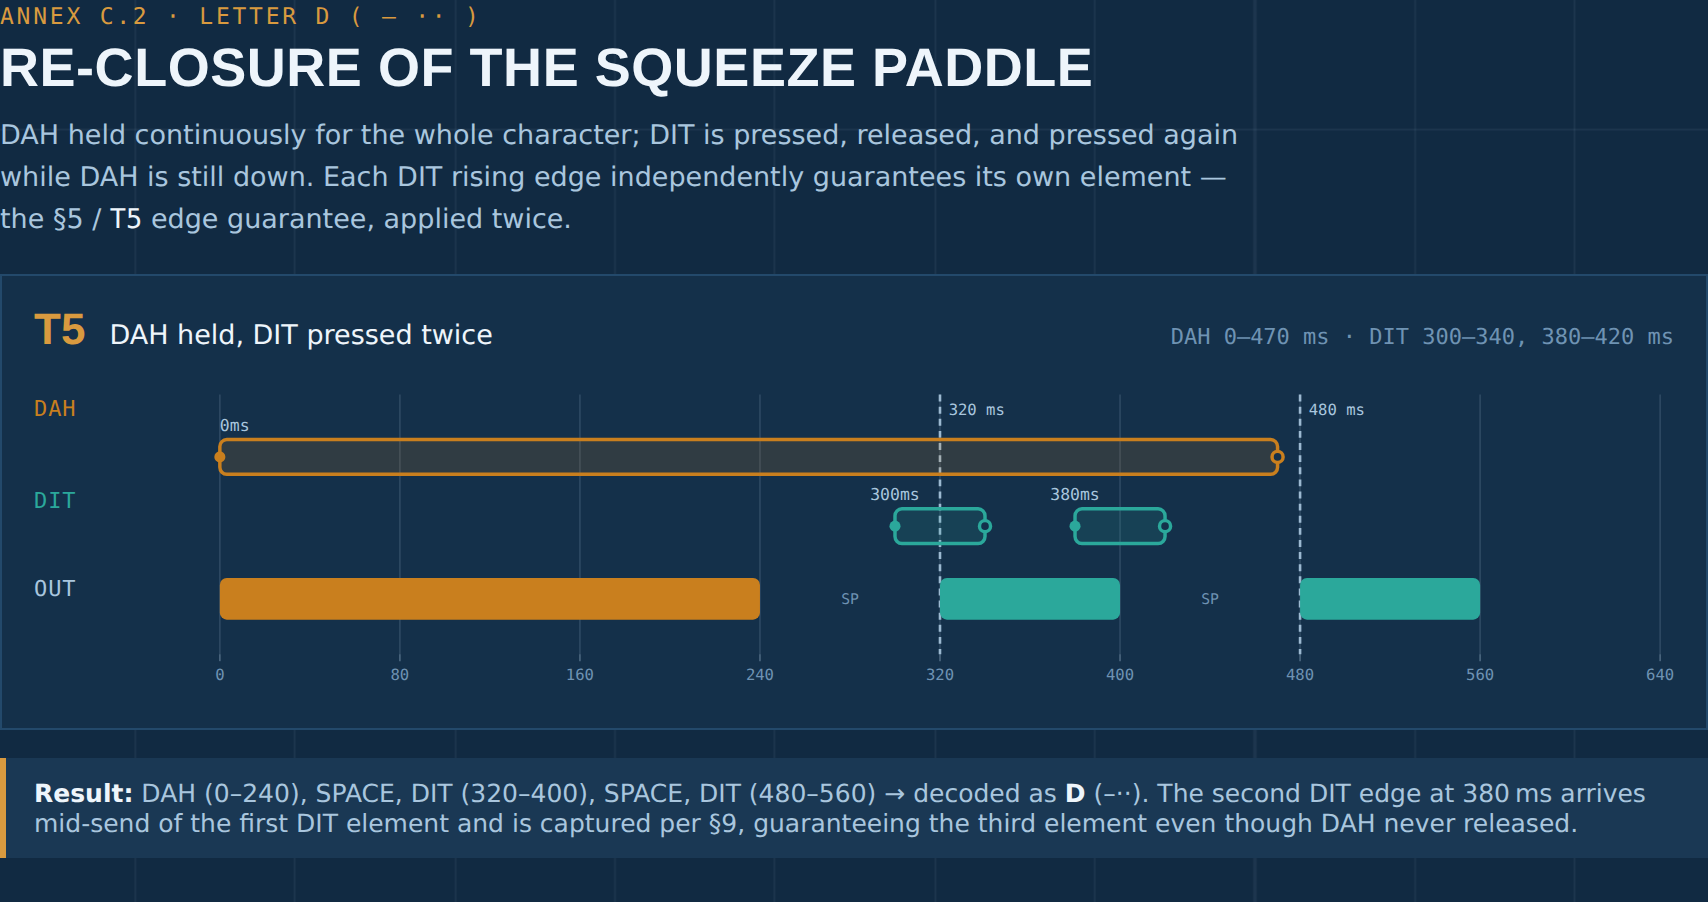
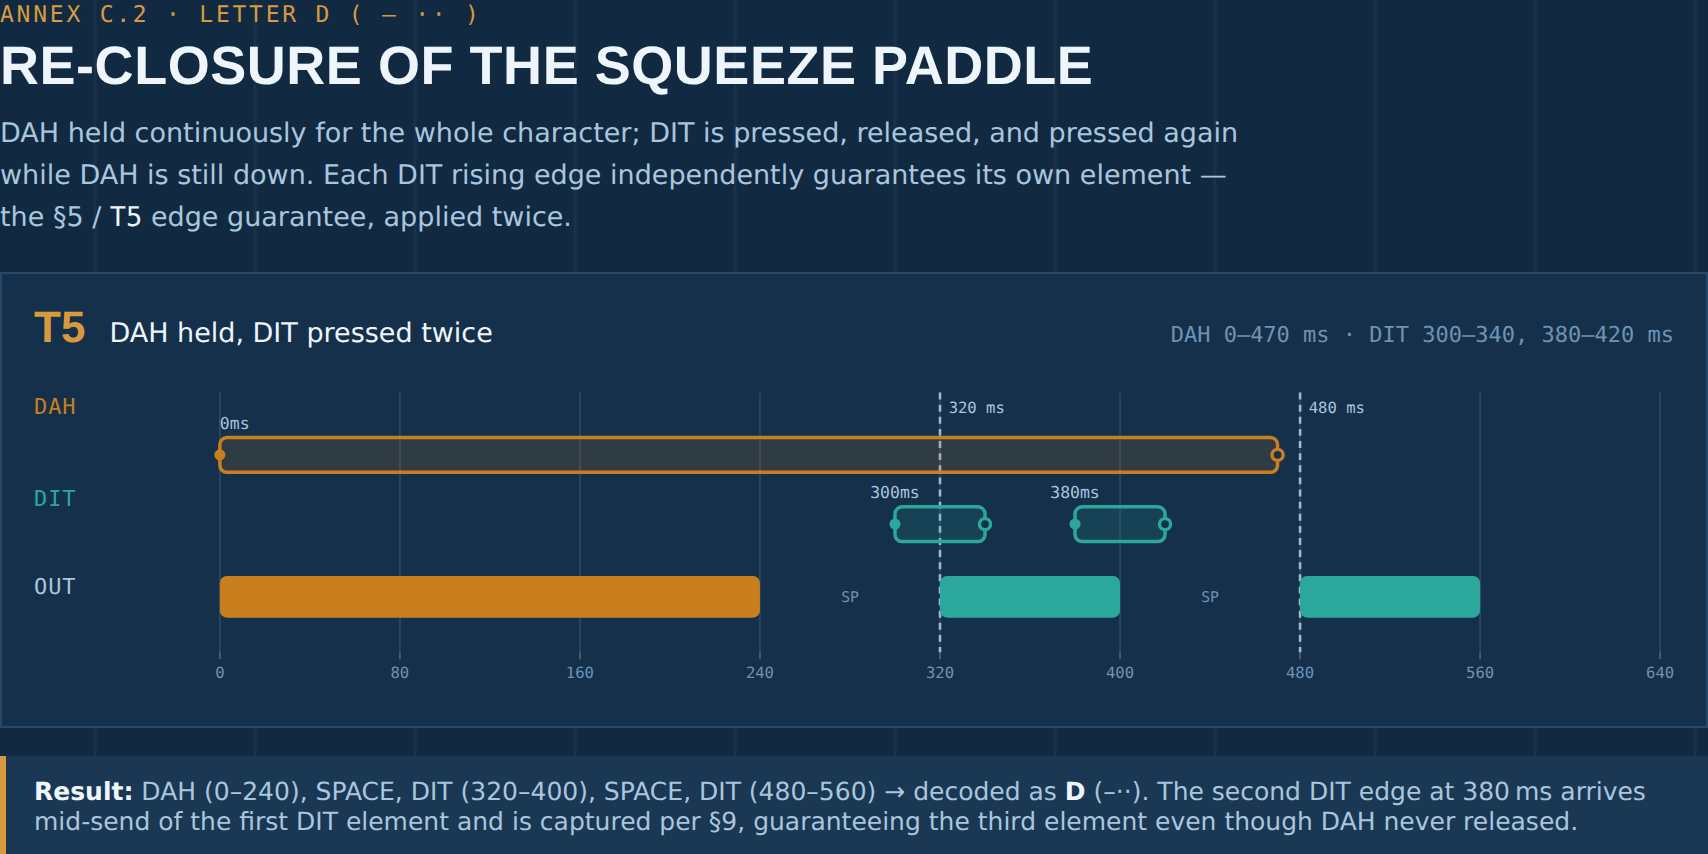
Rework Annex C.2/C.3: add a second T5 worked example, correct C.3 numbers and DIT/DAH naming; ignore .DS_Store

diff --git a/docs/ULTIMATIC_MODE_SPECIFICATION_UNAMBIGUOUS.md b/docs/ULTIMATIC_MODE_SPECIFICATION_UNAMBIGUOUS.md
@@ -2,6 +2,7 @@
 
 **Author:** Paweł (SP5DNA)
 **Status:** Normative core spec (Sections 1–14) + informative annexes (A–D)
+**Provenance:** This document is the primary normative spec of the Ultimatic-mode document set. It supersedes `ultimatic_specification.md` as the implementation reference; that document's historical text, worked timing examples, and checklist have been folded in below as informative annexes so nothing is lost. See also `ULTIMATIC_MODE_SPECIFICATION_RFC_STYLE.md` for the same requirements expressed as a compact RQ-ID checklist, useful for conformance audits.
 
 ---
 
@@ -349,6 +350,7 @@ void ultimatic_update(bool dit_paddle, bool dah_paddle) {
 }
 ```
 
+**Why this differs from the earlier draft pseudocode** (formerly in `ultimatic_specification.md` §4): that version used unconditional priority `if (dah_memory) ... else if (dit_memory) ...` in `IDLE`, with no `last_touched` at all. It satisfies Sections 5, 7 (partially), and 9–10, but not Section 8 Priority 1/3 or T8, because it has no way to prefer DIT over DAH when both memories are set from a DIT edge arriving second. Any implementation modeled directly on that earlier pseudocode should be re-checked against T8.
 
 ---
 
@@ -361,14 +363,14 @@ Reference speed for this annex only: **15 WPM**, dit unit = 80 ms, dah = 240 ms,
 Five input timelines, all conformant, all producing **DAH (0–240 ms), SPACE (240–320 ms), DIT (320–400 ms)**:
 
 | Scenario | DAH paddle | DIT paddle | Note                                                |
-| -------- | ---------- | ---------- | --------------------------------------------------- |
+| -------- | ---------- | ---------- | ---------------------------------------------------- |
 | 1        | 0–160 ms   | 10–80 ms   | plain squeeze during DAH                            |
 | 2        | 0–160 ms   | 200–210 ms | squeeze arrives **during SPACE** (T7)               |
 | 3        | 0–340 ms   | 250–260 ms | DAH held past its own element into the space        |
 | 4        | 0–420 ms   | 300–410 ms | DAH held through the whole character                |
 | 5        | 0–430 ms   | 300–470 ms | DAH held through character + partial trailing space |
 
-![Annex C.1 timing diagram — five conformant DAH/DIT paddle timelines for letter N, all converging on the same DAH–space–DIT output][image-1]
+![Annex C.1 timing diagram — five conformant DAH/DIT paddle timelines for letter N, all converging on the same DAH–space–DIT output](annex-c1-timing-diagram.png)
 
 *Figure C.1 — the DAH rising edge at 0 ms always wins the first element; the DIT rising edge only needs to land before the IDLE decision at 320 ms (dashed line), and MAY occur during `SPACING` (scenario 2). Scenarios 3–5 hold DAH well past its own element for illustration only — memory is consumed at element start, not release, so the extra hold changes nothing.*
 
@@ -381,29 +383,55 @@ Takeaway: the DIT rising edge only needs to land before the IDLE decision that f
 | DAH    | held 0–470 ms                                          |
 | DIT    | pressed 300–340 ms, released, pressed again 380–420 ms |
 
-![Annex C.2 timing diagram — DAH held continuously while DIT is pressed twice, each press independently guaranteeing its own element][image-2]
+![Annex C.2 timing diagram — DAH held continuously while DIT is pressed twice, each press independently guaranteeing its own element](annex-c2-timing-diagram.png)
 
 Result: **DAH (0–240), SPACE, DIT (320–400), SPACE, DIT (400... next cycle)** → decoded as **D** (`-··`).
 
 Each DIT rising edge (at 300 ms and again at 380 ms) independently sets `dit_memory` and guarantees its own element — this is the Section 5/T5 edge guarantee applied twice in one character. (An earlier draft of this example mislabeled the result as "`--`"; the correct decode is `-··` = D, matching the two independently-guaranteed DIT elements.)
 
+**A second T5 shape — indefinitely held paddle, widely spaced taps.** The same guarantee holds even when the held paddle never releases at all and the taps are spread much further apart:
+
+| Paddle | Timeline                                              |
+| ------ | ------------------------------------------------------ |
+| DAH    | 0 ms onward, **held continuously, never released**   |
+| DIT    | 10–160 ms, released, **560–640 ms** (reclosure)       |
+
+![Annex C.2b timing diagram — DAH held continuously from 0 ms with no release, while DIT is pressed at 10 ms and re-closed at 560 ms, each edge independently guaranteeing its own element](annex-c2b-timing-diagram.png)
+
+Result: **DAH (0–240), SPACE, DIT (320–400), SPACE, DAH (480–720), SPACE, DIT (800–880), SPACE, DAH (960 ms onward, repeats)** — an open-ended stream rather than a single letter, since DAH never releases.
+
+1. `0 ms`: DAH edge → `dah_memory=true`, `last_touched=DAH`. State is IDLE, so this immediately triggers a decision → sends DAH (0–240 ms).
+2. `10 ms`: DIT edge arrives mid-DAH-send → `dit_memory=true`, `last_touched=DIT`. Captured per Section 9.
+3. `240–320 ms`: SPACING, then IDLE decision: `dah_memory` was already consumed at DAH's start (0 ms), so only `dit_memory` is set → Priority 2 → sends DIT (320–400 ms).
+4. `400–480 ms`: SPACING, then IDLE decision: `dit_memory` was consumed at 320 ms and no new edge has occurred; DAH is still held (it never releases) → Priority 4 (single paddle held) → sends DAH again (480–720 ms).
+5. `560 ms`: DIT is re-closed — **while DAH is still held**. A fresh rising edge: `dit_memory=true`, `last_touched=DIT`. Captured mid-DAH-send.
+6. `720–800 ms`: SPACING, then IDLE decision: `dah_memory` was consumed at 480 ms, so only `dit_memory` is set (from the edge at 560 ms) → Priority 2 → sends DIT (800–880 ms).
+7. `880–960 ms`: SPACING, then IDLE decision: no memory is set, and DAH is still held → Priority 4 → sends DAH (960 ms onward), repeating indefinitely for as long as DAH stays held with no new DIT edge.
+
+**Why this is T5, not T8.** DAH — the paddle that opened the character at 0 ms — is also the paddle being held continuously; it is never the paddle that gets re-closed. DIT is what gets re-closed here (at 560 ms), and DIT did not open the character, so that reclosure is on the *squeeze* paddle, not the *opening* paddle — the same shape as the first C.2 scenario above, just with the hold made indefinite and the taps spread further apart. This is also why the raw numbers alone don't decide T5 vs. T8: it is *which paddle opened the character* that decides it. Swap the roles — make the re-closed paddle the one that opened, as in Annex C.3 below — and the identical-looking pattern becomes T8 instead.
+
 ### C.3 — T8 worked trace (the case that is easy to get wrong)
 
-| Paddle                              | Timeline                                             |
-| ----------------------------------- | ---------------------------------------------------- |
-| DAH (paddle A, opens the character) | 0–160 ms, released, **380–460 ms** (reclosure)       |
-| DIT (paddle B)                      | 100 ms onward, **held continuously, never released** |
+| Paddle                     | Timeline                                              |
+| --------------------------- | ------------------------------------------------------ |
+| DIT (opens the character)  | 10–160 ms, released, **560–640 ms** (reclosure)       |
+| DAH                         | 20 ms onward, **held continuously, never released**  |
+
+(DAH's continuous hold is shown starting at 20 ms — 10 ms after DIT's opening press — so that DIT is unambiguously the paddle that *opens* the character. T8 concerns re-closure of the opening paddle specifically, so the example needs a clear opening paddle to demonstrate it against.)
 
 Expected per Section 8/10 and T8:
-1. `0 ms`: DAH edge → `dah_memory=true`, `last_touched=DAH` → sends DAH (0–240 ms).
-2. `100 ms`: DIT edge arrives mid-DAH → `dit_memory=true`, `last_touched=DIT`. Captured per Section 9 (accepted during sending).
-3. `240–320 ms`: SPACING, then IDLE decision: `dah_memory` was already cleared when the DAH element started in step 1, so only `dit_memory` is set → Priority 2 → sends DIT (320–400 ms). Control has transferred to B, matching point 3/4.
-4. DIT paddle never releases, so absent a new edge, further IDLE decisions keep selecting DIT (Priority 4, single paddle held) — B keeps control, matching point 4.
-5. `380 ms`: DAH paddle (A) is re-closed — **while B is still held**. This is a fresh rising edge: `dah_memory=true`, `last_touched=DAH`.
-6. `400–480 ms`: SPACING, then at the next IDLE decision (480 ms): `dit_memory` was cleared when the DIT element started at 320 ms, so only `dah_memory` is set (from the edge at 380 ms) → Priority 2 → sends **DAH** (480–720 ms), even though B (DIT) never stopped being held — and even though A itself had already released by 460 ms. The guarantee fires purely off the memory flag, not the paddle levels.
-7. Control stays with DAH only for the guaranteed element sent in step 6; once `dah_memory` is consumed at its start (480 ms) and no new A edge has occurred, the next IDLE decision (800 ms) has no memory at all. Paddle A is not held (it released at 460 ms) but paddle B still is → Priority 4 → control reverts to B, which keeps sending DIT for as long as it stays held with no new edge.
+1. `10 ms`: DIT edge → `dit_memory=true`, `last_touched=DIT`. State is IDLE, so this immediately triggers a decision: only `dit_memory` is set → sends DIT (10–90 ms).
+2. `20 ms`: DAH edge arrives mid-DIT-send → `dah_memory=true`, `last_touched=DAH`. Captured per Section 9 (accepted during sending).
+3. `90–170 ms`: SPACING, then IDLE decision: `dit_memory` was already cleared when the DIT element started in step 1, so only `dah_memory` is set → Priority 2 → sends DAH (170–410 ms). Control has passed to DAH.
+4. `410–490 ms`: SPACING, then IDLE decision: no new edges have arrived since step 2 (consumed at the start of step 3), and DIT is not held — it released at 160 ms — but DAH still is → Priority 4 (single paddle held, no memory) → sends DAH again (490–730 ms). This is the plain "one paddle held, keep sending it" behavior; nothing T8-specific has happened yet.
+5. `560 ms`: DIT is re-closed — **while DAH is still held continuously**. This is a fresh rising edge on the paddle that opened the character: `dit_memory=true`, `last_touched=DIT`. Captured mid-DAH-send per Section 9.
+6. DIT releases again at 640 ms; this is irrelevant to the memory flag already latched in step 5 — the guarantee fires off the memory, not the paddle level (Section 5).
+7. `730–810 ms`: SPACING, then IDLE decision: `dah_memory` was cleared when the DAH element in step 4 started (490 ms), so only `dit_memory` is set (from the edge at 560 ms) → Priority 2 → sends **DIT** (810–890 ms) — the guaranteed reseize. Even though DAH never stopped being held, the flick at 560 ms still earns DIT one element, exactly as T8 requires.
+8. `890–970 ms`: SPACING, then IDLE decision: `dit_memory` was consumed at 810 ms and no new DIT edge has occurred since; DAH is still held with no competing memory → Priority 4 → control reverts to DAH (970–1210 ms), which keeps sending DAH indefinitely for as long as it stays held and no new DIT edge arrives.
 
-![Annex C.3 timing diagram — paddle A flicked again at 380 ms while paddle B stays held, forcing a guaranteed DAH reseize before control reverts to B][image-3]
+![Annex C.3 timing diagram — DIT (the opening paddle) flicked again at 560 ms while DAH stays held, forcing a guaranteed DIT reseize before control reverts to DAH](annex-c3-timing-diagram.png)
+
+**Why this matters in practice.** Ultimatic does not auto-alternate the way Iambic does: holding both paddles together does not, by itself, hand control back and forth. Getting a second occurrence of the paddle that opened the character — after control has already passed to the squeeze paddle — requires an actual release-and-reclose of the opening paddle, which is exactly the action T8 governs. T8 also covers the case where that reclosure is unintentional: a momentary, un-intended loss of contact on the held paddle (QST 1955 point 6's "just a flick!") must still be honored as a guaranteed element, not silently absorbed by whichever paddle currently has control. Treating T8 as a rare edge case is easy to do by eye; in practice it is the difference between a keyer that stays deterministic under real paddle contact bounce or an operator's momentary slip, and one that silently drops elements.
 
 ---
 
@@ -421,7 +449,3 @@ Expected per Section 8/10 and T8:
 - [ ] Tested against T1–T8 (Section 12), including T8 specifically, before calling the mode conformant.
 
 [1]:	https://www.worldradiohistory.com/Archive-DX/QST/50s/QST-1955-05.pdf
-
-[image-1]:	annex-c1-timing-diagram.png
-[image-2]:	annex-c2-timing-diagram.png
-[image-3]:	annex-c3-timing-diagram.png

diff --git a/README.md b/README.md
@@ -1,38 +1,37 @@
-*English · [Polski][1]*
-
 # Ultimatic Mode Specification
 
-A deterministic, implementation-independent specification of \*\*Ultimatic keyer
-behavior\*\* for Morse code paddles — detached from any specific hardware,
+A deterministic, implementation-independent specification of **Ultimatic keyer
+behavior** for Morse code paddles — detached from any specific hardware,
 programming language, or scheduler architecture, with the goal of removing
 ambiguity in edge cases and providing testable normative behavior.
 
 ## Contents
 
-- [`docs/ULTIMATIC_MODE_SPECIFICATION_UNAMBIGUOUS.md`][2]
+- [`docs/ULTIMATIC_MODE_SPECIFICATION_UNAMBIGUOUS.md`](docs/ULTIMATIC_MODE_SPECIFICATION_UNAMBIGUOUS.md)
   — the primary normative spec: core requirements (Sections 1–14) plus
   informative annexes (A–D):
   - **Annex A** — the original 1955 source text this spec formalizes, with a
-	point-by-point mapping to the normative sections.
+    point-by-point mapping to the normative sections.
   - **Annex B** — reference pseudocode, written so the `last_touched` pointer
-	is explicit and live.
+    is explicit and live.
   - **Annex C** — three worked timing examples (C.1–C.3), each illustrated
-	with a timing diagram (previewed below).
+    with a timing diagram (previewed below).
   - **Annex D** — an implementation checklist.
 
 ### Annex C previews
 
 **C.1** — Letter N, five conformant paddle timelines converging on one output (`T3`/`T7`)
 
-![C.1][image-1]
+![C.1](docs/annex-c1-timing-diagram.png)
 
-**C.2** — Letter D, re-closure of the squeeze paddle (`T5`)
+**C.2** — Letter D, re-closure of the squeeze paddle (`T5`); a second worked example shows the same guarantee holding with an indefinitely-held paddle and widely-spaced taps
 
-![C.2][image-2]
+![C.2](docs/annex-c2-timing-diagram.png)
+![C.2b](docs/annex-c2b-timing-diagram.png)
 
-**C.3** — the T8 worked trace: re-closure of the *first* paddle while the second stays down
+**C.3** — the T8 worked trace: re-closure of the *opening* paddle while the squeeze paddle stays down
 
-![C.3][image-3]
+![C.3](docs/annex-c3-timing-diagram.png)
 
 This repository currently holds the primary spec only. The companion
 documents it refers to — a historical draft (`ultimatic_specification.md`)
@@ -60,19 +59,20 @@ Section 12) are welcome.
 
 ## License
 
-Licensed under [CC BY 4.0][3] — see that file for the full text. You
+Licensed under [CC BY 4.0](LICENSE) — see that file for the full text. You
 are free to share and adapt this specification for any purpose, including
 implementing it in hardware or software, provided you credit the original
 authorship.
 
+Annex A reproduces substantial portions of a 1955 QST Magazine article
+("Summary of Actions of the Keys") for traceability between the original
+source and the normative requirements it maps to. That article is a
+separate, older work reproduced here for reference — see the citation and
+link at the top of Annex A. If you plan to redistribute this repository
+beyond referencing/quoting it, it's worth independently confirming the
+copyright status of that reproduced excerpt; nothing here should be read as
+a legal opinion on that point.
+
 ## Author
 
-Paweł (SP5DNA) + Claude AI
-
-[1]:	README.pl.md
-[2]:	docs/ULTIMATIC_MODE_SPECIFICATION_UNAMBIGUOUS.md
-[3]:	LICENSE
-
-[image-1]:	docs/annex-c1-timing-diagram.png
-[image-2]:	docs/annex-c2-timing-diagram.png
-[image-3]:	docs/annex-c3-timing-diagram.png
+Paweł (SP5DNA)
